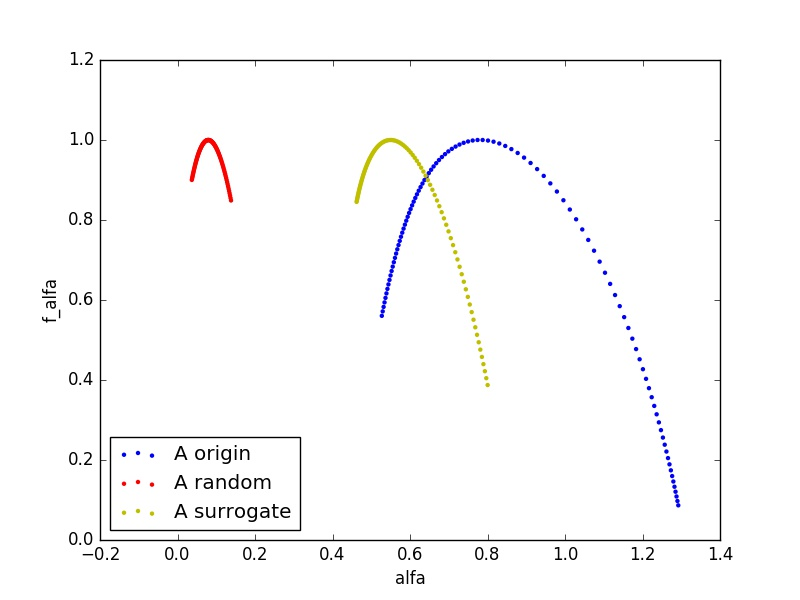
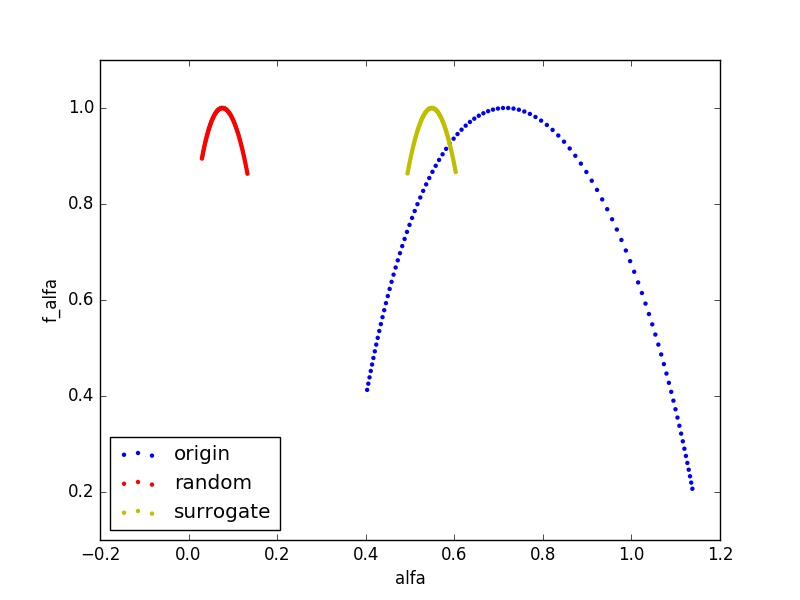
select

diff --git a/finite.py b/finite.py
@@ -19,9 +19,9 @@ def estimate_fse(filename, class_t, folder):
     f_alfa = [method_dcca.f_alfa, method_dcca_rand.f_alfa, method_dcca_surr.f_alfa]
     size_t = 10
     plt.figure()
-    plt.scatter(alfa[0], f_alfa[0], s = size_t, c = 'b', edgecolors = 'none', label='A origin')
-    plt.scatter(alfa[1], f_alfa[1], s = size_t, c = 'r', edgecolors = 'none', label='A random')
-    plt.scatter(alfa[2], f_alfa[2], s = size_t, c = 'y', edgecolors = 'none', label='A surrogate')
+    plt.scatter(alfa[0], f_alfa[0], s = size_t, c = 'b', edgecolors = 'none', label='origin')
+    plt.scatter(alfa[1], f_alfa[1], s = size_t, c = 'r', edgecolors = 'none', label='random')
+    plt.scatter(alfa[2], f_alfa[2], s = size_t, c = 'y', edgecolors = 'none', label='surrogate')
     plt.xlabel('alfa')
     plt.ylabel('f_alfa')
     plt.legend(loc = 'lower left')

diff --git a/method/DCCA.py b/method/DCCA.py
@@ -52,7 +52,7 @@ class MF_DCCA(object):
     def generate(self):
         base = 2
         #step_list = [int(self.length/base**x) for x in range(2, int(log(self.length)/log(base))+1) if base**x <= self.length/20]
-        step_list = [k for k in range(15, int(self.length/4), 1)]
+        step_list = [k for k in range(15, int(self.length/2), 10)]
         #partition = lambda list_t, start_range, end_range, step_t: [list_t[i:i+step_t] for i in range(0,end_range+1,step_t)] + [list_t[i-step_t:i] for i in range(self.length,start_range-1,-step_t)]
         corr_list = []
         for step_t in step_list:

diff --git a/method/DPXA.py b/method/DPXA.py
@@ -61,7 +61,7 @@ class MF_DPXA(object):
     def generate(self):
         base = 2
         #step_list = [int(self.length/base**x) for x in range(2, int(log(self.length)/log(base))+1) if base**x <= self.length/20]
-        step_list = [k for k in range(15, int(self.length/4), 1)]
+        step_list = [k for k in range(15, int(self.length/2), 10)]
         #partition = lambda list_t, start_range, end_range, step_t: [list_t[i:i+step_t] for i in range(0,end_range+1,step_t)] + [list_t[i-step_t:i] for i in range(self.length,start_range-1,-step_t)]
         corr_list = []
         for step_t in step_list:
